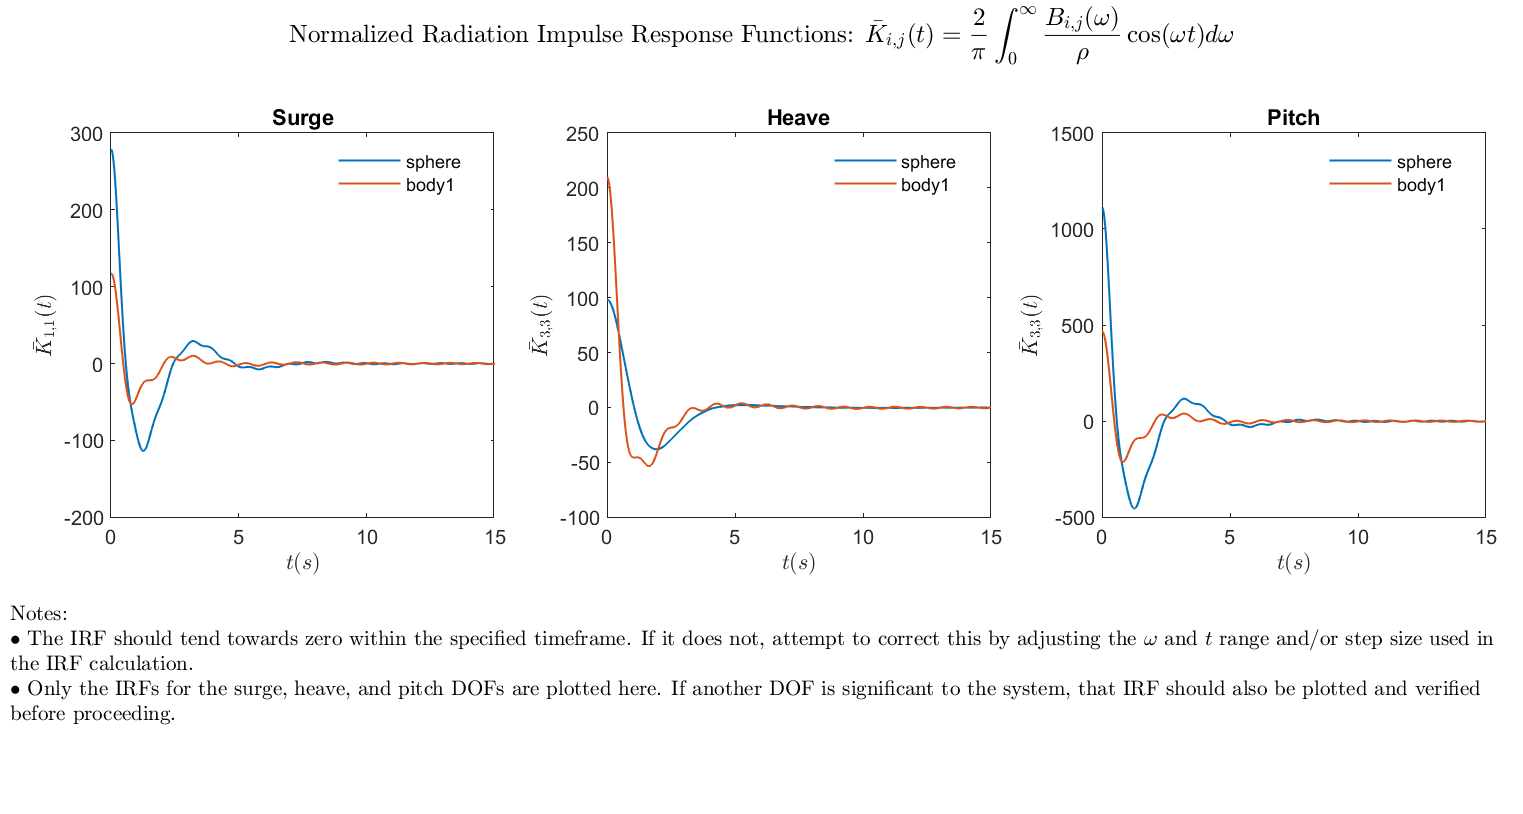
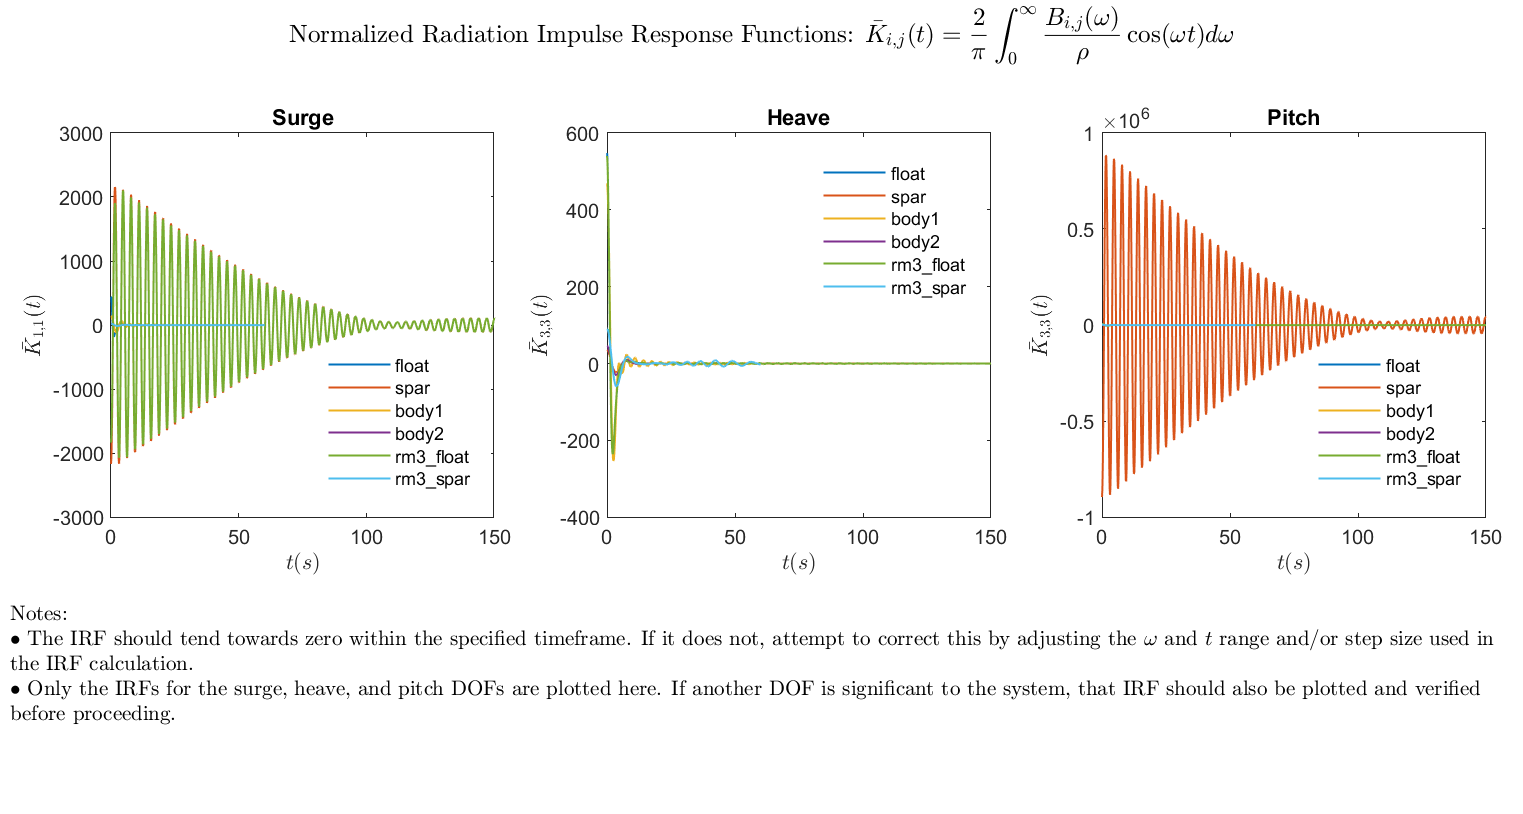
adding extensible plot rad irf

diff --git a/source/functions/BEMIO/plotRadiationIRF.m b/source/functions/BEMIO/plotRadiationIRF.m
@@ -14,19 +14,21 @@ function plotRadiationIRF(hydro,varargin)
     for i = 1:hydro.Nb
         m = hydro.dof(i);
         Y(1,n,:) = squeeze(hydro.ra_K(a+1,a+1,:));
-        Legends{1,n} = [hydro.body{i}];
+%         Legends{1,n} = [hydro.body{i}];
         Y(2,n,:) = squeeze(hydro.ra_K(a+3,a+3,:));
-        Legends{2,n} = [hydro.body{i}];
+%         Legends{2,n} = [hydro.body{i}];
         Y(3,n,:) = squeeze(hydro.ra_K(a+5,a+5,:));
-        Legends{3,n} = [hydro.body{i}];
+%         Legends{3,n} = [hydro.body{i}];
+        Legends{i,1} = [hydro.body{i}];
         if isfield(hydro,'ss_A')==1
             n = n+1;
             Y(1,n,:) = squeeze(hydro.ss_K(a+1,a+1,:));
-            Legends{1,n} = [hydro.body{i},' (SS)'];
+%             Legends{1,n} = [hydro.body{i},' (SS)'];
             Y(2,n,:) = squeeze(hydro.ss_K(a+3,a+3,:));
-            Legends{2,n} = [hydro.body{i},' (SS)'];
+%             Legends{2,n} = [hydro.body{i},' (SS)'];
             Y(3,n,:) = squeeze(hydro.ss_K(a+5,a+5,:));
-            Legends{3,n} = [hydro.body{i},' (SS)'];
+%             Legends{3,n} = [hydro.body{i},' (SS)'];
+            Legends{i,1} = [hydro.body{i},' (SS)'];        
         end
         n = n+1;
         a = a + m;
@@ -44,29 +46,39 @@ function plotRadiationIRF(hydro,varargin)
         FormatPlot(Fig3,Title,Subtitles,XLables,YLables,X,Y,Legends,Notes)
     end
         
-    if length(varargin)==1
-        try varargin{1}=varargin{1}{1}; end
-        X1 = hydro.ra_t;
-        Nb = varargin{1}.Nb;
-        a = 0;    
-        for i = 1:Nb
-            m = varargin{1}.dof(i);
-            Y1(1,i,:) = squeeze(varargin{1}.ra_K(a+1,a+1,:));
-            Legends{1,i+Nb} = [varargin{1}.body{i}];
-            Y1(2,i,:) = squeeze(varargin{1}.ra_K(a+3,a+3,:));
-            Legends{2,i+Nb} = [varargin{1}.body{i}];
-            Y1(3,i,:) = squeeze(varargin{1}.ra_K(a+5,a+5,:));
-            Legends{3,i+Nb} = [varargin{1}.body{i}];
-            if isfield(varargin{1},'ss_A')==1
-                Y1(1,i,:) = squeeze(varargin{1}.ss_K(a+1,a+1,:));
-                Legends{1,i+Nb} = [varargin{1}.body{i},' (SS)'];
-                Y1(2,i,:) = squeeze(varargin{1}.ss_K(a+3,a+3,:));
-                Legends{2,i+Nb} = [varargin{1}.body{i},' (SS)'];
-                Y1(3,i,:) = squeeze(varargin{1}.ss_K(a+5,a+5,:));
-                Legends{3,i+Nb} = [varargin{1}.body{i},' (SS)'];
-            end
-            a = a + m;
-        end  
+%     if length(varargin)==1
+%         try varargin{1}=varargin{1}{1}; end
+    numHydro = length(varargin);
+    if numHydro>=1
+       for ii=1:numHydro
+            numBod = varargin{ii}.Nb;
+            tmp1 = strcat('X',num2str(ii));
+            X1.(tmp1) = varargin{ii}.ra_t;
+    %             X1 = hydro.ra_t;
+            tmp2 = strcat('Y',num2str(ii));
+    %         Nb = varargin{1}.Nb;
+            a = 0;    
+            for i = 1:numBod
+                m = varargin{ii}.dof(i);
+                Y1.(tmp2)(1,i,:) = squeeze(varargin{ii}.ra_K(a+1,a+1,:));
+    %             Legends{1,i+Nb} = [varargin{1}.body{i}];
+                Y1.(tmp2)(2,i,:) = squeeze(varargin{ii}.ra_K(a+3,a+3,:));
+    %             Legends{2,i+Nb} = [varargin{1}.body{i}];
+                Y1.(tmp2)(3,i,:) = squeeze(varargin{ii}.ra_K(a+5,a+5,:));
+    %             Legends{3,i+Nb} = [varargin{1}.body{i}];
+                Legends{i,1+ii} = [varargin{ii}.body{i}];                
+                if isfield(varargin{ii},'ss_A')==1
+                    Y1.(tmp2)(1,i,:) = squeeze(varargin{ii}.ss_K(a+1,a+1,:));
+    %                 Legends{1,i+Nb} = [varargin{1}.body{i},' (SS)'];
+                    Y1.(tmp2)(2,i,:) = squeeze(varargin{ii}.ss_K(a+3,a+3,:));
+    %                 Legends{2,i+Nb} = [varargin{1}.body{i},' (SS)'];
+                    Y1.(tmp2)(3,i,:) = squeeze(varargin{ii}.ss_K(a+5,a+5,:));
+    %                 Legends{3,i+Nb} = [varargin{1}.body{i},' (SS)'];
+                    Legends{i,1+11} = [hydro.body{i},' (SS)'];    
+                end
+                a = a + m;
+            end  
+       end
         FormatPlot(Fig3,Title,Subtitles,XLables,YLables,X,Y,Legends,Notes,X1,Y1)  
     end
     

diff --git a/source/functions/BEMIO/FormatPlot.m b/source/functions/BEMIO/FormatPlot.m
@@ -21,8 +21,8 @@ for i = 1:b
     if ~isempty(varargin)
         numHydro = length(fieldnames(varargin{1}));
         for ii = 1:numHydro           
-            tmp1 = strcat('freq',num2str(ii));
-            tmp2 = strcat('addedMass',num2str(ii));
+            tmp1 = strcat('X',num2str(ii));
+            tmp2 = strcat('Y',num2str(ii));
             plot(varargin{1}.(tmp1),squeeze(varargin{2}.(tmp2)(1,i,:)),'LineWidth',1)  
         end
     else
@@ -43,8 +43,8 @@ for i = 1:b
     if ~isempty(varargin)
         numHydro = length(fieldnames(varargin{1}));
         for ii = 1:numHydro           
-            tmp1 = strcat('freq',num2str(ii));
-            tmp2 = strcat('addedMass',num2str(ii));
+            tmp1 = strcat('X',num2str(ii));
+            tmp2 = strcat('Y',num2str(ii));
             plot(varargin{1}.(tmp1),squeeze(varargin{2}.(tmp2)(2,i,:)),'LineWidth',1);  
         end        
     end
@@ -58,13 +58,13 @@ for i = 1:b
     subplot('Position',[0.7235 0.3645 0.2521 0.4720]);
     hold('on');
     box('on');
-    plot(X_data,squeeze(Y_data(3,i,:)),'LineWidth',1);  %,'Parent',axes3);
+    plot(X_data,squeeze(Y_data(3,i,:)),'LineWidth',1); 
     hold on
     if ~isempty(varargin)
         numHydro = length(fieldnames(varargin{1}));
         for ii = 1:numHydro           
-            tmp1 = strcat('freq',num2str(ii));
-            tmp2 = strcat('addedMass',num2str(ii));
+            tmp1 = strcat('X',num2str(ii));
+            tmp2 = strcat('Y',num2str(ii));
             plot(varargin{1}.(tmp1),squeeze(varargin{2}.(tmp2)(3,i,:)),'LineWidth',1);  
         end            
     end

diff --git a/source/functions/BEMIO/plotRadiationDamping.m b/source/functions/BEMIO/plotRadiationDamping.m
@@ -12,9 +12,7 @@ function plotRadiationDamping(hydro,varargin)
     for i = 1:hydro.Nb
         m = hydro.dof(i);
         Y(1,i,:) = squeeze(hydro.B(a+1,a+1,:));
-%         Legends{1,i} = [hydro.body{i}];
         Y(2,i,:) = squeeze(hydro.B(a+3,a+3,:));
-%         Legends{2,i} = [hydro.body{i}];
         Y(3,i,:) = squeeze(hydro.B(a+5,a+5,:));
 %         Legends{3,i} = [hydro.body{i}];
         Legends{i,1} = [hydro.body{i}];
@@ -37,9 +35,9 @@ function plotRadiationDamping(hydro,varargin)
     if numHydro>=1
        for ii=1:numHydro
             numBod = varargin{ii}.Nb;
-            tmp1 = strcat('freq',num2str(ii));
+            tmp1 = strcat('X',num2str(ii));
             X1.(tmp1) = varargin{ii}.w;
-            tmp2 = strcat('addedMass',num2str(ii));
+            tmp2 = strcat('Y',num2str(ii));
             a = 0;            
             for i = 1:numBod
                 m = varargin{ii}.dof(i);

diff --git a/examples/BEMIO/compareBEM.m b/examples/BEMIO/compareBEM.m
@@ -80,9 +80,11 @@ plotRadiationDamping(WAMIT_hydro,AQWA_hydro)
 plotRadiationDamping(CAP_hydro)
 plotRadiationDamping(WAMIT_hydro,AQWA_hydro,CAP_hydro)
 % 
-% plotRadiationIRF(WAMIT_hydro)
-% plotRadiationIRF(AQWA_hydro)
-% plotRadiationIRF(WAMIT_hydro,AQWA_hydro)
+plotRadiationIRF(WAMIT_hydro)
+plotRadiationIRF(AQWA_hydro)
+plotRadiationIRF(WAMIT_hydro,AQWA_hydro)
+plotRadiationIRF(CAP_hydro)
+plotRadiationIRF(WAMIT_hydro,AQWA_hydro,CAP_hydro)
 % 
 % plotExcitationMagnitude(WAMIT_hydro)
 % plotExcitationMagnitude(AQWA_hydro)

diff --git a/source/functions/BEMIO/plotAddedMass.m b/source/functions/BEMIO/plotAddedMass.m
@@ -33,9 +33,9 @@ function plotAddedMass(hydro,varargin)
     if numHydro>=1
        for ii=1:numHydro
             numBod = varargin{ii}.Nb;
-            tmp1 = strcat('freq',num2str(ii));
+            tmp1 = strcat('X',num2str(ii));
             X1.(tmp1) = varargin{ii}.w;
-            tmp2 = strcat('addedMass',num2str(ii));
+            tmp2 = strcat('Y',num2str(ii));
             a = 0;            
             for i = 1:numBod    
                 m = varargin{ii}.dof(i);
